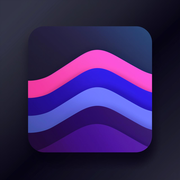
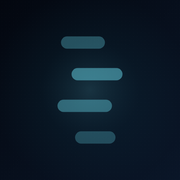
Brand refresh: Direction B restyle (mark 2d, F2 flair, new hero copy, four product cards)

diff --git a/index.html b/index.html
@@ -5,7 +5,9 @@
     <meta name="viewport" content="width=device-width, initial-scale=1.0">
     <title>HazeyData — Data Science by Fred Hazelton</title>
     <meta name="description" content="HazeyData is an independent data science practice by Fred Hazelton — building ML-powered tools for theme parks, sovereign AI infrastructure, school schedule data, and more.">
-    <link rel="icon" type="image/png" sizes="32x32" href="assets/icon-32.png">
+    <link rel="icon" href="favicon.ico" sizes="any">
+    <link rel="icon" type="image/png" sizes="32x32" href="assets/favicon-32x32.png">
+    <link rel="icon" type="image/png" sizes="16x16" href="assets/favicon-16x16.png">
     <link rel="apple-touch-icon" sizes="180x180" href="assets/icon-180.png">
     <meta name="theme-color" content="#0a1628">
     <link rel="canonical" href="https://hazeydata.ai/">
@@ -15,18 +17,18 @@
     <meta property="og:url" content="https://hazeydata.ai/">
     <meta property="og:title" content="HazeyData — Data Science by Fred Hazelton">
     <meta property="og:description" content="Independent data science practice — ML-powered tools for theme parks, sovereign AI, and more.">
-    <meta property="og:image" content="https://hazeydata.ai/assets/banner.jpg">
+    <meta property="og:image" content="https://hazeydata.ai/assets/og-image-1200x630.png">
 
     <!-- Twitter Card -->
     <meta name="twitter:card" content="summary_large_image">
     <meta name="twitter:site" content="@disneystatswhiz">
     <meta name="twitter:title" content="HazeyData — Data Science by Fred Hazelton">
     <meta name="twitter:description" content="Independent data science practice — ML-powered tools for theme parks, sovereign AI, and more.">
-    <meta name="twitter:image" content="https://hazeydata.ai/assets/banner.jpg">
+    <meta name="twitter:image" content="https://hazeydata.ai/assets/og-image-1200x630.png">
 
     <link rel="preconnect" href="https://fonts.googleapis.com">
     <link rel="preconnect" href="https://fonts.gstatic.com" crossorigin>
-    <link href="https://fonts.googleapis.com/css2?family=Inter:wght@400;500;600;700;800&family=JetBrains+Mono:wght@400;500;600;700&display=swap" rel="stylesheet">
+    <link href="https://fonts.googleapis.com/css2?family=Inter:wght@400;500;600;700;800&display=swap" rel="stylesheet">
     <link rel="stylesheet" href="styles.css?v=20260315b">
     <style>
         /* ========================================
@@ -884,6 +886,7 @@
             }
         }
     </style>
+    <link rel="stylesheet" href="hazeydata-b.css">
 </head>
 <body>
     <!-- Ambient background orbs -->
@@ -897,7 +900,7 @@
     <nav class="hub-nav" id="hubNav">
         <div class="hub-nav-inner">
             <a href="/" class="hub-logo">
-                <span class="hub-logo-mark">HAZEYDATA</span><span class="hub-logo-dot"></span>
+                <span class="hd-logo"><img src="assets/hd-mark.svg" width="21" height="34" alt=""><span>Hazey<b>Data</b></span></span>
             </a>
             <button class="hub-hamburger" id="hubHamburger" aria-label="Menu">
                 <span></span><span></span><span></span>
@@ -913,6 +916,7 @@
 
     <!-- Hero -->
     <section class="hub-hero">
+        <svg class="hd-motif" viewBox="0 0 100 100" aria-hidden="true"><g transform="translate(50,50) scale(1.6) translate(-25,-49)"><g stroke="#5FC4D6" stroke-linecap="round" stroke-width="5"><line class="in" x1="12" y1="22" x2="30" y2="22" opacity=".25"/><line class="in" x1="18" y1="40" x2="40" y2="40" opacity=".4"/><line class="in" x1="10" y1="58" x2="34" y2="58" opacity=".3"/><line class="in" x1="20" y1="76" x2="36" y2="76" opacity=".2"/></g></g></svg>
         <div class="hub-hero-content">
             <div class="hero-data-line">
                 <span>Machine Learning</span>
@@ -920,12 +924,9 @@
                 <span>Data Products</span>
                 <span>Open Source</span>
             </div>
-            <h1>
-                <span class="hero-line-1">Data Science That</span>
-                <span class="hero-line-2">Solves Real Problems</span>
-            </h1>
+            <h1>Scattered records in, plain answers out.</h1>
             <p class="tagline">Independent practice by Fred Hazelton</p>
-            <p class="subtitle">Building ML-powered tools and data products — from theme park crowd forecasting to sovereign AI infrastructure to national-scale data collection.</p>
+            <p class="subtitle">We gather public records scattered across government sites and PDFs and turn them into tools you can search.</p>
             <div class="hero-cta-row">
                 <a href="#projects" class="btn btn-primary btn-lg">Explore Projects</a>
                 <a href="mailto:fred@hazeydata.ai" class="btn btn-outline btn-lg">Get in Touch</a>
@@ -936,28 +937,6 @@
             <svg viewBox="0 0 24 24"><path d="M12 5v14M5 12l7 7 7-7"/></svg>
         </div>
     </section>
-
-    <!-- Metrics Bar -->
-    <div class="metrics-bar">
-        <div class="metrics-inner">
-            <div class="metric-item">
-                <div class="metric-val">4</div>
-                <div class="metric-label">Active Projects</div>
-            </div>
-            <div class="metric-item">
-                <div class="metric-val">12</div>
-                <div class="metric-label">Parks Tracked</div>
-            </div>
-            <div class="metric-item">
-                <div class="metric-val">13,400+</div>
-                <div class="metric-label">School Districts</div>
-            </div>
-            <div class="metric-item">
-                <div class="metric-val">46M+</div>
-                <div class="metric-label">Students Covered</div>
-            </div>
-        </div>
-    </div>
 
     <!-- Projects -->
     <section id="projects" class="projects-section">
@@ -975,10 +954,9 @@
                     <div class="status-badge live">Live Beta</div>
                 </div>
                 <h3>Theme Park Crowd Report</h3>
-                <p class="card-desc">ML-powered wait time predictions for Disney, Universal, and more. The Wait Time Index (WTI) distills crowd levels into one number — so you can plan smarter.</p>
+                <p class="card-desc">ML-powered wait time predictions for Disney, Universal, and more. The Wait Time Index distills crowd levels into one number — so you can plan smarter.</p>
                 <div class="card-tags">
                     <span class="card-tag">XGBoost</span>
-                    <span class="card-tag">12 Parks</span>
                     <span class="card-tag">Discord Bot</span>
                     <span class="card-tag">AI Q&A</span>
                 </div>
@@ -1008,9 +986,8 @@
                     <div class="status-badge live">Live</div>
                 </div>
                 <h3>School Schedule Database</h3>
-                <p class="card-desc">Complete US school calendar dataset — 13,400+ districts, 46M+ students. Start dates, spring break, winter break, summer schedules. Structured API access.</p>
+                <p class="card-desc">US school calendar dataset gathered from district sources. Start dates, spring break, winter break, summer schedules. Structured API access.</p>
                 <div class="card-tags">
-                    <span class="card-tag">13,400+ Districts</span>
                     <span class="card-tag">REST API</span>
                     <span class="card-tag">AI Scraped</span>
                 </div>
@@ -1032,6 +1009,64 @@
                 </div>
                 <span class="card-link">Explore ACCORD <span class="card-link-arrow">→</span></span>
             </a>
+
+            <!-- OpenMillage -->
+            <a href="https://hazeydata.github.io/openmillage-site/" class="project-card openmillage">
+                <div class="card-header">
+                    <div class="card-emoji">🏛</div>
+                    <div class="status-badge live">Live</div>
+                </div>
+                <h3>OpenMillage</h3>
+                <p class="card-desc">Property tax rates by taxing body, each linked to its official source. Florida pilot.</p>
+                <div class="card-tags">
+                    <span class="card-tag">Property Tax</span>
+                    <span class="card-tag">Official Sources</span>
+                </div>
+                <span class="card-link">Explore OpenMillage <span class="card-link-arrow">→</span></span>
+            </a>
+
+            <!-- AgentWebIndex -->
+            <a href="https://agentwebindex.com/" class="project-card agentwebindex">
+                <div class="card-header">
+                    <div class="card-emoji">🔎</div>
+                    <div class="status-badge live">Live</div>
+                </div>
+                <h3>AgentWebIndex</h3>
+                <p class="card-desc">A leaderboard of agent web APIs for search, scraping and browsing, built from logged benchmark runs, with cited prices.</p>
+                <div class="card-tags">
+                    <span class="card-tag">Leaderboard</span>
+                    <span class="card-tag">Agent APIs</span>
+                </div>
+                <span class="card-link">Explore AgentWebIndex <span class="card-link-arrow">→</span></span>
+            </a>
+
+            <!-- K12Comp (no link until launch) -->
+            <div class="project-card k12comp">
+                <div class="card-header">
+                    <div class="card-emoji">🏫</div>
+                    <div class="status-badge concept">Coming Soon</div>
+                </div>
+                <h3>K12Comp</h3>
+                <p class="card-desc">A sourced database of superintendent contract terms and teacher salary schedules, district by district.</p>
+                <div class="card-tags">
+                    <span class="card-tag">Compensation</span>
+                    <span class="card-tag">Official Sources</span>
+                </div>
+            </div>
+
+            <!-- ParkPermits (no link until launch) -->
+            <div class="project-card parkpermits">
+                <div class="card-header">
+                    <div class="card-emoji">🏗</div>
+                    <div class="status-badge concept">Coming Soon</div>
+                </div>
+                <h3>ParkPermits</h3>
+                <p class="card-desc">A sourced tracker of the building, construction and environmental permits that theme parks file with local governments.</p>
+                <div class="card-tags">
+                    <span class="card-tag">Permits</span>
+                    <span class="card-tag">Public Filings</span>
+                </div>
+            </div>
         </div>
     </section>
 
@@ -1085,7 +1120,7 @@
         <div class="hub-footer-inner">
             <div class="hub-footer-top">
                 <div class="footer-brand-block">
-                    <div class="footer-brand-name">HAZEYDATA</div>
+                    <div class="footer-brand-name"><span class="hd-logo"><img src="assets/hd-mark.svg" width="21" height="34" alt=""><span>Hazey<b>Data</b></span></span></div>
                     <div class="footer-brand-sub">Data Science by Fred Hazelton</div>
                 </div>
                 <div class="footer-columns">

diff --git a/hazeydata-b.css b/hazeydata-b.css
@@ -1,0 +1,46 @@
+@import url('https://fonts.googleapis.com/css2?family=Space+Grotesk:wght@500;600;700&family=Inter:wght@400;500;600&display=swap');
+:root{--hd-dot-grid:radial-gradient(circle,rgba(169,184,201,.09) 1px,transparent 1.2px) 0 0/22px 22px;--hd-glow:radial-gradient(circle at 78% 50%,rgba(95,196,214,.20) 0,rgba(27,111,128,.08) 35%,transparent 70%)}
+/* HazeyData Direction B restyle: override layer, loaded after styles.css */
+:root{--hd-deep:#03070F;--hd-bg:linear-gradient(135deg,#03070F 0%,#0A1628 100%);--bg-dark:#03070F;--accent:#5FC4D6;--accent-light:#5FC4D6;--hd-navy:#0A1628;--hd-panel:#13243D;--hd-cyan:#5FC4D6;--hd-slate:#A9B8C9;--hd-white:#fff;--font-text:'Inter',system-ui,sans-serif;--font-mono:'Space Grotesk',system-ui,sans-serif}
+html{background:#03070F}body{background:var(--hd-dot-grid),var(--hd-bg)!important;min-height:100vh;color:var(--hd-white);font-family:'Inter',system-ui,sans-serif!important}
+h1,h2,h3,h4,.about-name,.section-label,.hero-data-line span,.footer-brand-name{font-family:'Space Grotesk',system-ui,sans-serif!important;letter-spacing:-.01em}
+.hub-ambient{display:none!important}
+.hub-nav{background:rgba(3,7,15,.88)!important;border-bottom:1px solid var(--hd-panel)!important;backdrop-filter:blur(8px)}
+.hub-logo{display:flex;align-items:center;gap:8px;text-decoration:none}
+.hub-logo-mark,.hub-logo-dot{display:none!important}
+.hd-logo{display:flex;align-items:center;gap:9px;font:700 22px 'Space Grotesk',sans-serif;letter-spacing:.012em;color:#fff}.hd-logo b{font-weight:500;color:var(--hd-cyan)}
+.hub-nav-links a{color:var(--hd-slate)!important;font-family:'Inter'!important}.hub-nav-links a:hover{color:var(--hd-cyan)!important}
+.hub-hero{background:transparent!important;position:relative;overflow:hidden}
+.hd-motif{position:absolute;right:-22vw;top:50%;transform:translateY(-50%);width:min(66vw,860px);opacity:.3;z-index:0;pointer-events:none}
+.hub-hero::before{content:"";position:absolute;inset:0;background:var(--hd-glow);pointer-events:none;z-index:0}
+.hub-hero h1::after{content:"";display:block;width:44px;height:3px;border-radius:1.5px;background:var(--hd-cyan);margin:18px auto 0}
+.hub-hero-content{position:relative;z-index:1}
+.hero-data-line span{color:var(--hd-cyan)!important;border-color:rgba(95,196,214,.35)!important;background:transparent!important;font-weight:500}
+.hub-hero h1{color:#fff!important;font-weight:600!important;background:none!important;-webkit-text-fill-color:#fff!important}
+.hub-hero h1 span{background:none!important;-webkit-text-fill-color:currentColor!important;color:#fff!important}
+.hub-hero .tagline{color:var(--hd-cyan)!important}
+.hub-hero .subtitle,.section-desc,.card-desc,.about-body p{color:var(--hd-slate)!important}
+.btn-primary{background:var(--hd-cyan)!important;color:var(--hd-navy)!important;border:0!important;box-shadow:none!important;font-family:'Inter'!important;font-weight:600!important;border-radius:8px!important}
+.btn-outline{border:1.5px solid #fff!important;color:#fff!important;background:transparent!important;border-radius:8px!important}
+.section-label{color:var(--hd-cyan)!important;text-transform:uppercase;letter-spacing:.12em!important;font-size:13px!important}
+.projects-section,.about-section,.contact-cta{background:transparent!important}
+.project-card{background:var(--hd-panel)!important;border:1px solid rgba(169,184,201,.15)!important;border-radius:12px!important;box-shadow:none!important}
+.project-card:hover{border-color:var(--hd-cyan)!important}
+.project-card::before,.project-card::after{display:none!important}
+.card-tag{background:rgba(95,196,214,.1)!important;color:var(--hd-cyan)!important;border:0!important}
+.status-badge{background:transparent!important;border:1px solid var(--hd-slate)!important;color:var(--hd-slate)!important}
+.status-badge.live{border-color:var(--hd-cyan)!important;color:var(--hd-cyan)!important}
+.card-link,.card-link-arrow,.about-links a,.about-body a{color:var(--hd-cyan)!important}
+.hub-divider{border-color:var(--hd-panel)!important}
+.media-highlight{background:var(--hd-panel)!important;border-color:rgba(95,196,214,.3)!important}
+.contact-cta{border-top:1px solid var(--hd-panel)}
+.hub-footer{background:#03070F!important;border-top:1px solid var(--hd-panel)!important}
+.footer-brand-name{font-size:0!important}.footer-brand-name .hd-logo{font-size:20px}
+.footer-brand-sub,.hub-footer a,.hub-footer-copy{color:var(--hd-slate)!important}
+@media (prefers-reduced-motion:no-preference){
+ .hd-motif .in{animation:hd-drift 9s ease-in-out infinite alternate}
+ .hd-motif .in:nth-child(2){animation-delay:-2.2s}.hd-motif .in:nth-child(3){animation-delay:-4.5s}.hd-motif .in:nth-child(4){animation-delay:-6.7s}
+ .project-card{transition:border-color .2s,transform .2s}.project-card:hover{transform:translateY(-2px)}
+}
+@keyframes hd-drift{from{transform:translateX(-6px)}to{transform:translateX(10px)}}
+@media (max-width:700px){.hd-motif{width:90vw;right:-42vw;top:24%;opacity:.3}}
